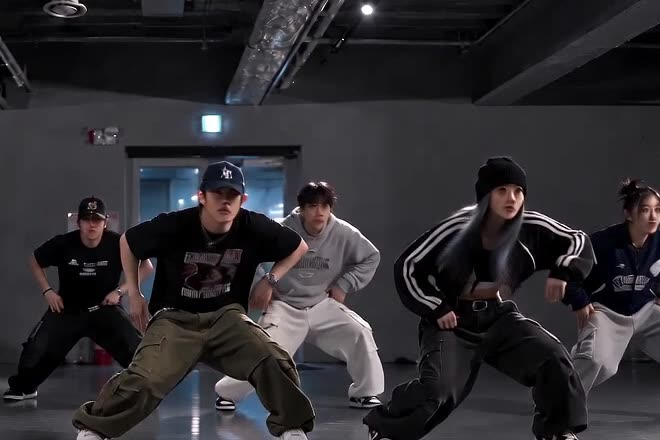
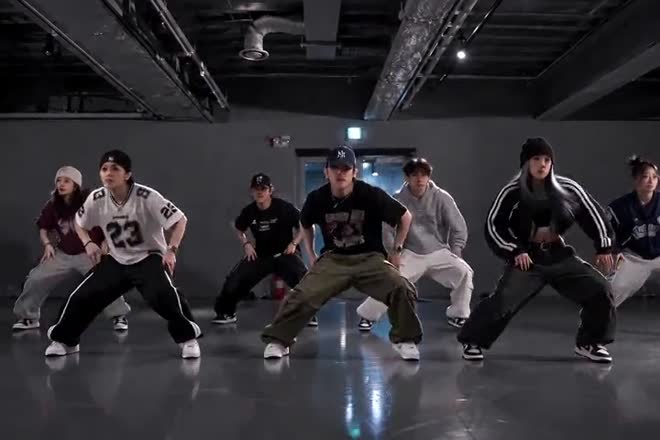
Landing sketch tile: a wider, natural frame and a hand-drawn circle and arrow
Claude-Session: https://claude.ai/code/session_015xyiRtX2p9kfWQE4EdsAKz

diff --git a/index.html b/index.html
@@ -211,8 +211,8 @@
                 <div class="frame frame-photo">
                   <img src="/samples/sketch-frame.jpg" alt="" loading="lazy" width="660" height="440" />
                   <svg class="sketch" viewBox="0 0 660 440" preserveAspectRatio="xMidYMid slice" aria-hidden="true">
-                    <ellipse class="sk sk-y" cx="326" cy="262" rx="70" ry="98" />
-                    <path class="sk sk-r" d="M330 52 L330 146 M330 146 L316 128 M330 146 L344 128" />
+                    <path class="sk sk-y" d="M470 168 C452 140 404 142 388 176 C372 214 376 290 404 320 C428 344 470 330 482 292 C494 252 490 196 462 160 C452 148 440 144 430 147" />
+                    <path class="sk sk-r" d="M437 66 C439 88 434 110 436 134 M421 117 C428 124 432 130 436 136 C440 128 445 122 451 115" />
                   </svg>
                   <div class="sketch-bar"><span><svg class="ic solo" viewBox="0 0 24 24" aria-hidden="true"><path d="M12 20h9"/><path d="M16.5 3.5a2.1 2.1 0 0 1 3 3L7 19l-4 1 1-4z"/></svg></span><span><svg class="ic solo" viewBox="0 0 24 24" aria-hidden="true"><path d="M7 17 17 7M8 7h9v9"/></svg></span><span class="on"><svg class="ic solo" viewBox="0 0 24 24" aria-hidden="true"><circle cx="12" cy="12" r="8"/></svg></span><i style="--c:#ffd60a" class="on"></i><i style="--c:#ff453a"></i><i style="--c:#64d2ff"></i><i style="--c:#ffffff"></i><span class="sk-act"><svg class="ic solo" viewBox="0 0 24 24" aria-hidden="true"><path d="M9 14 4 9l5-5"/><path d="M4 9h10.5a5.5 5.5 0 0 1 0 11H11"/></svg></span><span class="sk-act"><svg class="ic solo" viewBox="0 0 24 24" aria-hidden="true"><path d="M6 6l12 12M18 6 6 18"/></svg></span><b>Done</b></div>
                 </div>
